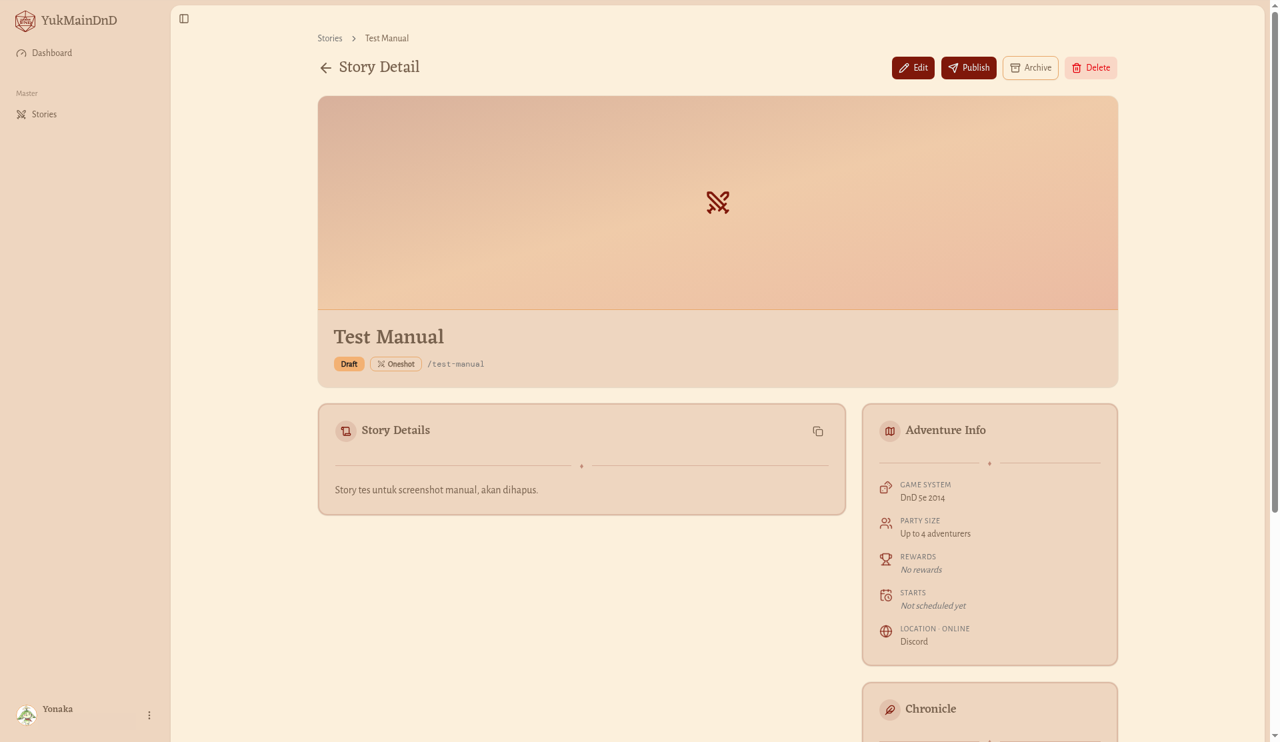
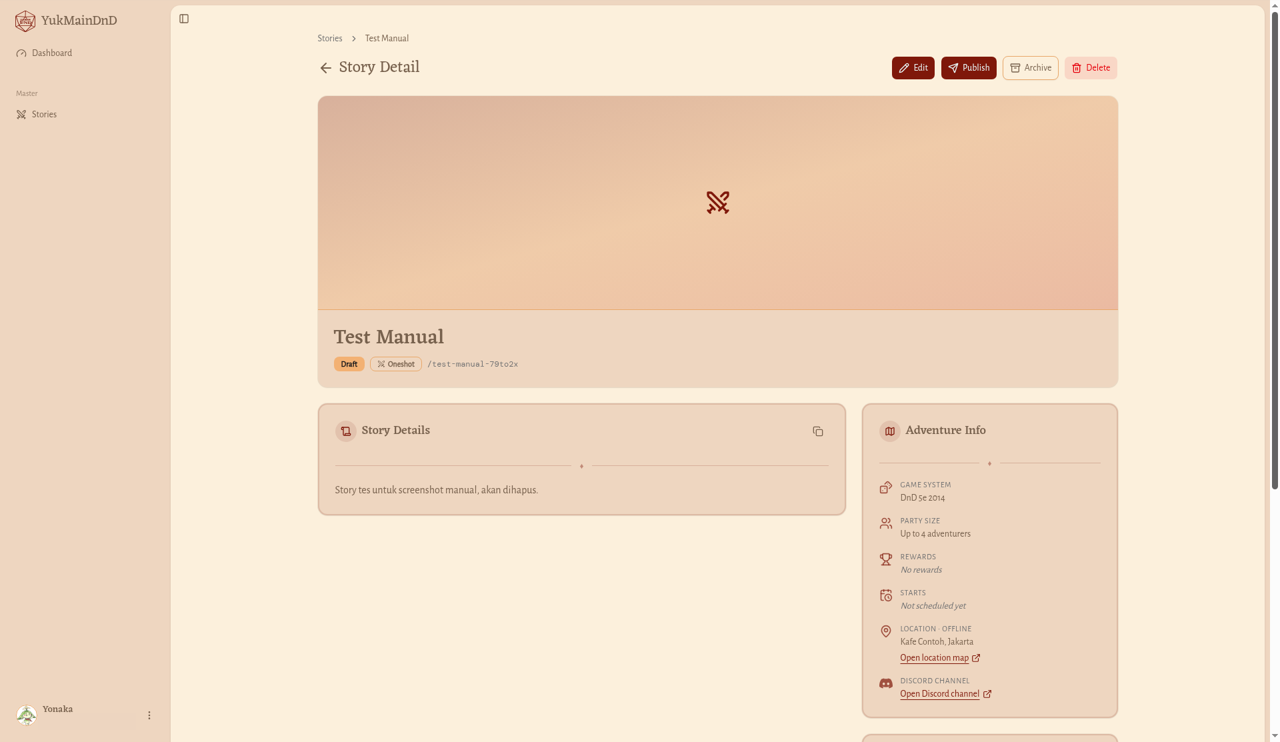
Retake DM story screenshots with location map and Discord links

Changed region(s): [[0.6562, 0.8369, 0.875, 1.0], [0.9688, 0.031, 1.0, 0.6819]]

diff --git a/docs/dungeon-master/story.md b/docs/dungeon-master/story.md
@@ -96,6 +96,8 @@ Di bawah **Location Detail** ada dua kolom tambahan yang boleh dikosongkan:
 
 Kedua tautan harus diawali **https://** (tautan **http://** ditolak) dan paling panjang 255 karakter. Tautan Discord hanya diterima dari discord.com, discord.gg, atau discordapp.com.
 
+![Bagian lokasi di form Create Story: Location Type, Location Detail, Location Link, dan Discord Channel Link yang sudah terisi, dengan tombol Cancel, Save as Draft, dan Publish](../images/dm-stories-create-links.png)
+
 **Hasilnya:** setelah Story disimpan, tautan **Open location map** muncul di bawah keterangan lokasi, dan baris **Discord Channel** dengan tautan **Open Discord channel** muncul di detail Story. Keduanya tampil di detail Story milikmu, di detail Story pemain yang bergabung, dan di halaman Story publik, lalu terbuka di tab baru. Kalau kolomnya dikosongkan, tautannya tidak ditampilkan.
 
 ### Menulis cerita Story
@@ -137,7 +139,7 @@ Pesan kesalahan form lainnya: **Title is required**, **Title must be at most 150
 
 **Cara membuka:** klik judul Story di daftar, atau pilih **View** dari ikon titik tiga di kartunya.
 
-![Story Detail sebuah Draft milik DM lain, dengan Story Details, Adventure Info, dan Chronicle, tanpa tombol aksi](../images/dm-stories-detail-1.png)
+![Story Detail sebuah Story Published milik DM lain, dengan Story Details dan Adventure Info berisi Open location map dan Discord Channel, tanpa tombol aksi](../images/dm-stories-detail-1.png)
 
 Halaman **Story Detail** berisi:
 
@@ -151,7 +153,7 @@ Isinya sama dengan [detail Story di Board](../pemain/dashboard.md#detail-story-d
 
 > Bagian di bawah ini (mengubah, mengubah status, menyelesaikan, dan mengatur anggota) hanya berlaku untuk **Story yang kamu tulis sendiri**.
 
-![Story Detail milikmu sendiri berstatus Draft, dengan tombol Edit, Publish, Archive, dan Delete di kanan atas](../images/dm-stories-detail-2.png)
+![Story Detail milikmu sendiri berstatus Draft, dengan tombol Edit, Publish, Archive, dan Delete di kanan atas, serta Open location map dan Discord Channel di Adventure Info](../images/dm-stories-detail-2.png)
 
 ## Mengubah Story
 
